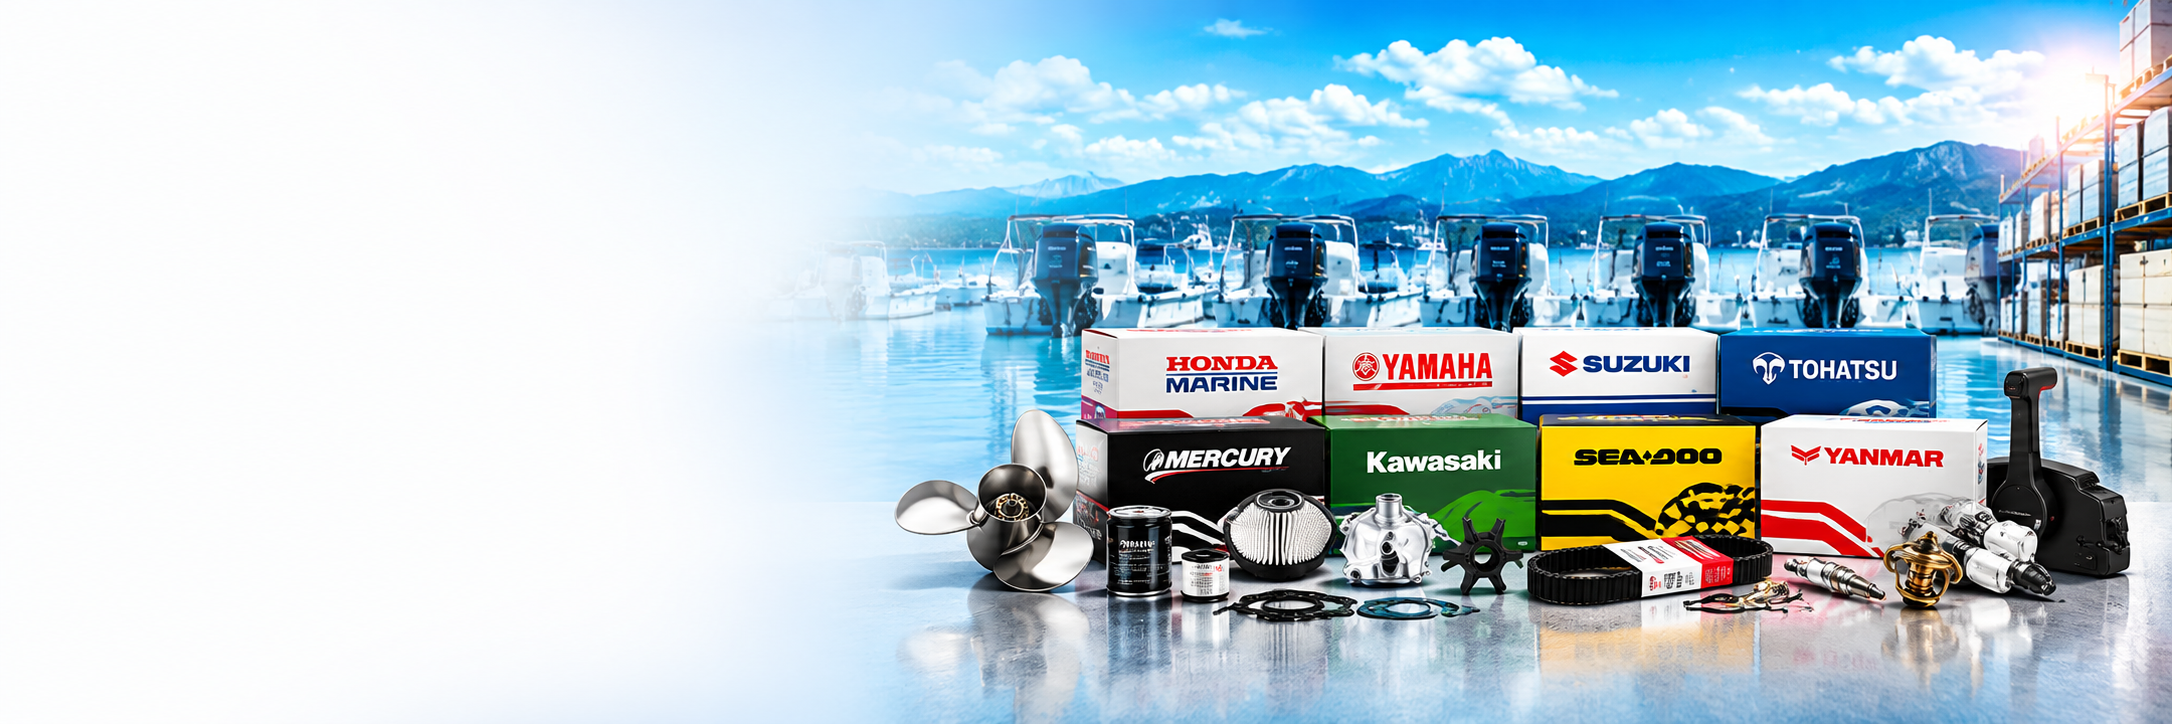
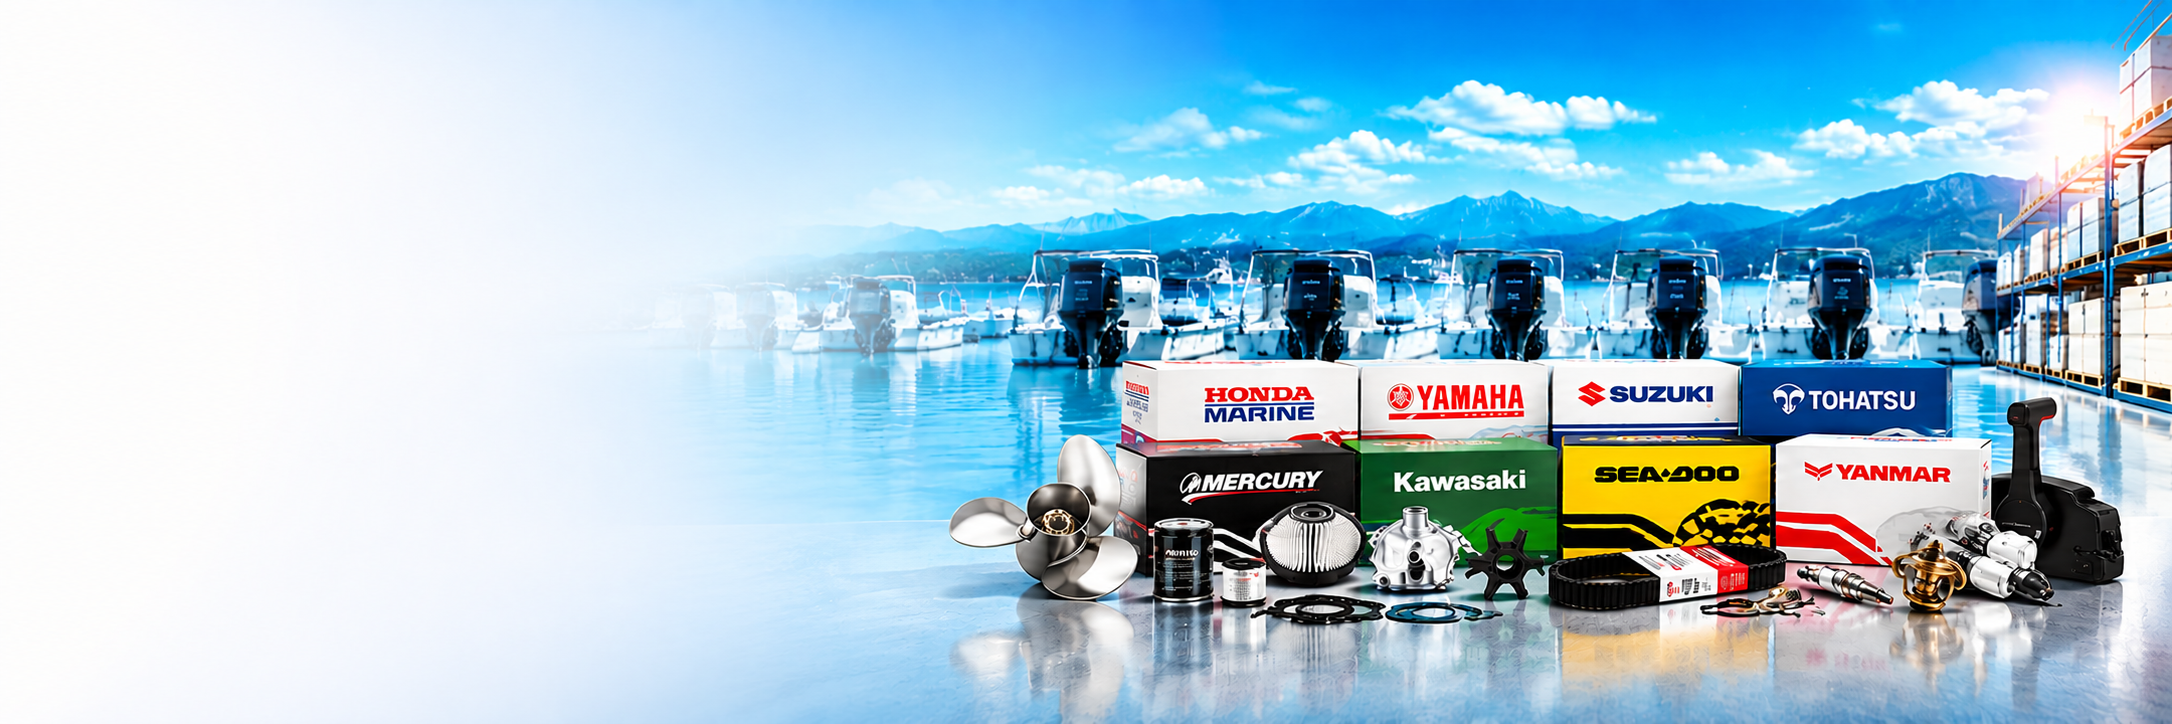
JPM

diff --git a/FE_JPM/src/assets/client/css/main.css b/FE_JPM/src/assets/client/css/main.css
@@ -72,8 +72,8 @@
   --jpm-font-body: 'Roboto', sans-serif;
   --jpm-font-mono: 'Roboto Mono', monospace;
 
-  /* 8. Layout Offset */
-  --jpm-header-height: 80px;
+  /* 8. Layout Offset (Khớp chính xác 100% với .header height: 70px) */
+  --jpm-header-height: 70px;
 
   /* ═════════════════════════════════════════════════════════════════
      GLOBAL BRIDGES: Ánh xạ các biến cũ sang Design Tokens 2026
@@ -115,12 +115,12 @@
 
 @media (max-width: 1199.98px) {
   :root {
-    --jpm-header-height: 72px;
+    --jpm-header-height: 70px;
   }
 }
 @media (max-width: 767.98px) {
   :root {
-    --jpm-header-height: 64px;
+    --jpm-header-height: 70px;
   }
 }
 
@@ -4158,16 +4158,16 @@ a.btn-shopee-outline:hover {
    CENTRALIZED INNER PAGE HEADER OFFSET (DEC-LAYOUT-OFFSET)
    ═════════════════════════════════════════════════════════════════ */
 .main-inner-page {
-  padding-top: var(--jpm-header-height, 80px);
+  padding-top: var(--jpm-header-height, 70px);
 }
 @media (max-width: 1199px) {
   .main-inner-page {
-    padding-top: var(--jpm-header-height, 72px);
+    padding-top: var(--jpm-header-height, 70px);
   }
 }
 @media (max-width: 767px) {
   .main-inner-page {
-    padding-top: var(--jpm-header-height, 64px);
+    padding-top: var(--jpm-header-height, 70px);
   }
 }
 

diff --git a/FE_JPM/src/views/client/guest/SanPham.vue b/FE_JPM/src/views/client/guest/SanPham.vue
@@ -521,29 +521,36 @@ const scrollToProducts = () => {
   min-height: 260px;
   max-height: 320px;
   height: clamp(250px, 20vw, 320px);
-  background-color: #f1f5f9;
+  background-color: #ffffff;
   background-image: url('/client/image/shop_banner.png');
   background-size: cover;
   background-position: center right;
   background-repeat: no-repeat;
   display: flex;
   align-items: center;
+  border-top: none !important;
+  border-left: none !important;
+  border-right: none !important;
   border-bottom: 1px solid #e2e8f0;
-  box-shadow: 0 4px 20px rgba(10, 17, 40, 0.04);
+  box-shadow: none !important;
+  margin-top: -1px;
 }
 
 .store-banner-overlay {
   position: absolute;
-  inset: 0;
+  top: 0;
+  bottom: 0;
+  left: -2px;
+  right: 0;
   z-index: 1;
   background: linear-gradient(
     90deg,
     #ffffff 0%,
-    rgba(255, 255, 255, 0.98) 28%,
-    rgba(255, 255, 255, 0.92) 42%,
-    rgba(255, 255, 255, 0.65) 65%,
-    rgba(255, 255, 255, 0.20) 85%,
-    rgba(255, 255, 255, 0.03) 100%
+    #ffffff 32%,
+    rgba(255, 255, 255, 0.98) 45%,
+    rgba(255, 255, 255, 0.85) 60%,
+    rgba(255, 255, 255, 0.40) 80%,
+    rgba(255, 255, 255, 0.05) 100%
   );
   pointer-events: none;
 }
@@ -642,6 +649,7 @@ const scrollToProducts = () => {
 .shop-catalog-page {
   background-color: #f8fafc;
   min-height: 100vh;
+  overflow-x: hidden;
 }
 
 /* ── PAGE TITLE (MATCHING GIO HANG) ── */

diff --git a/FE_JPM/src/views/admin/HeThong/CauHinhHeThong.vue b/FE_JPM/src/views/admin/HeThong/CauHinhHeThong.vue
@@ -968,20 +968,23 @@ export default {
   position: relative;
   display: flex;
   align-items: center;
-  background-color: #f8fafc;
+  background-color: #ffffff;
 }
 
 .admin-banner-preview-overlay {
   position: absolute;
-  inset: 0;
+  top: 0;
+  bottom: 0;
+  left: -2px;
+  right: 0;
   z-index: 1;
   background: linear-gradient(
     90deg,
     #ffffff 0%,
-    rgba(255, 255, 255, 0.98) 35%,
-    rgba(255, 255, 255, 0.92) 50%,
-    rgba(255, 255, 255, 0.65) 75%,
-    rgba(255, 255, 255, 0.15) 90%,
+    #ffffff 32%,
+    rgba(255, 255, 255, 0.98) 48%,
+    rgba(255, 255, 255, 0.80) 70%,
+    rgba(255, 255, 255, 0.25) 88%,
     transparent 100%
   );
   pointer-events: none;
